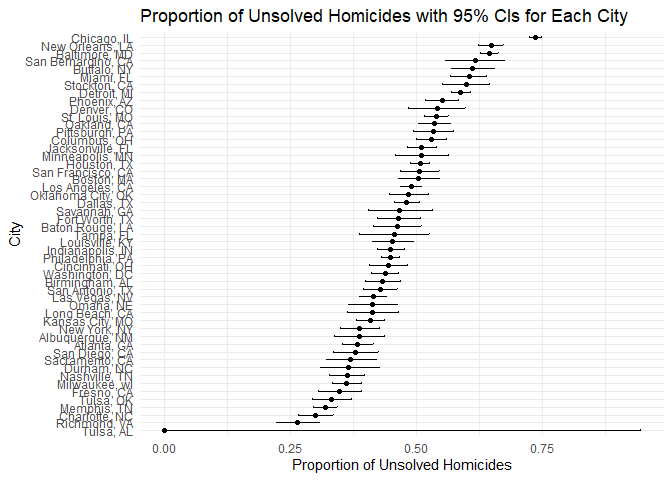
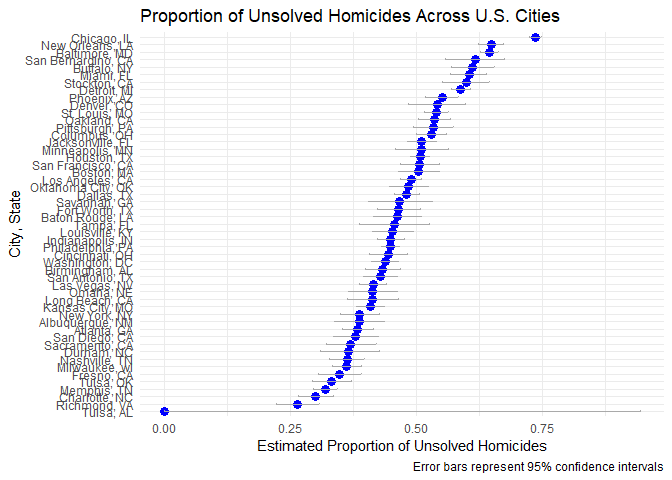
Added 2 tables in problem 3. But late.

Changed region(s): [[0.0, 0.0625, 0.2812, 0.9688], [0.375, 0.0, 1.0, 1.0]]

diff --git a/p8105_hw5_yj2802.md b/p8105_hw5_yj2802.md
@@ -1,7 +1,7 @@
 p8105_hw5_yj2802
 ================
 Yizhen Jia
-2024-11-15
+2024-11-16
 
 ``` r
 library(tidyverse)
@@ -31,6 +31,7 @@ library(rvest)
 
 ``` r
 library(broom)
+library(knitr)
 ```
 
 ## Problem 1
@@ -157,21 +158,70 @@ included variables are: uid, reported_date, victim_last, victim_first,
 victim_race, victim_age, victim_sex, city, state, lat, lon, disposition.
 
 ``` r
-p3 = homicides |>
-  mutate(city_state = paste(city, state, sep = ", ")) |>
-  group_by(city_state) |>
+homicides = read_csv(url) |> 
+  mutate(city_state = paste(city, state, sep = ", "))
+```
+
+    ## Rows: 52179 Columns: 12
+    ## ── Column specification ────────────────────────────────────────────────────────
+    ## Delimiter: ","
+    ## chr (9): uid, victim_last, victim_first, victim_race, victim_age, victim_sex...
+    ## dbl (3): reported_date, lat, lon
+    ## 
+    ## ℹ Use `spec()` to retrieve the full column specification for this data.
+    ## ℹ Specify the column types or set `show_col_types = FALSE` to quiet this message.
+
+``` r
+city_summary = homicides |> 
+  group_by(city_state) |> 
   summarize(
     total_homicides = n(),
     unsolved_homicides = sum(disposition %in% c("Closed without arrest", "Open/No arrest")),
     .groups = "drop"
   )
 
-results = p3 |>
+baltimore_summary = homicides |> 
+  filter(city_state == "Baltimore, MD") |> 
+  summarize(
+    total_homicides = n(),
+    unsolved_homicides = sum(disposition %in% c("Closed without arrest", "Open/No arrest"))
+  )
+
+baltimore_test = prop.test(
+  baltimore_summary$unsolved_homicides, 
+  baltimore_summary$total_homicides
+) |> 
+  broom::tidy() |> 
+  select(estimate, conf.low, conf.high)
+
+baltimore_table = baltimore_test |> 
+  mutate(
+    city = "Baltimore, MD",
+    estimate = round(estimate, 3),
+    conf.low = round(conf.low, 3),
+    conf.high = round(conf.high, 3)
+  ) |> 
+  select(city, estimate, conf.low, conf.high)
+
+knitr::kable(
+  baltimore_table, 
+  caption = "Proportion of Unsolved Homicides in Baltimore, MD"
+)
+```
+
+| city          | estimate | conf.low | conf.high |
+|:--------------|---------:|---------:|----------:|
+| Baltimore, MD |    0.646 |    0.628 |     0.663 |
+
+Proportion of Unsolved Homicides in Baltimore, MD
+
+``` r
+city_results = city_summary |> 
   mutate(
     prop_test = map2(unsolved_homicides, total_homicides, ~ prop.test(.x, .y)),
-    tidy_result = map(prop_test, tidy)
-  ) |>
-  unnest(cols = tidy_result) |>
+    tidy_results = map(prop_test, tidy)
+  ) |> 
+  unnest(cols = tidy_results) |> 
   select(city_state, estimate, conf.low, conf.high)
 ```
 
@@ -182,19 +232,95 @@ results = p3 |>
     ## ! Chi-squared approximation may be incorrect
 
 ``` r
-results = results |>
-  arrange(desc(estimate))
+city_table = city_results |> 
+  arrange(city_state) |>
+  mutate(
+    estimate = round(estimate, 3),
+    conf.low = round(conf.low, 3),
+    conf.high = round(conf.high, 3)
+  ) |> 
+  rename(
+    `City, State` = city_state,
+    `Proportion` = estimate,
+    `Lower CI` = conf.low,
+    `Upper CI` = conf.high
+  )
 
-ggplot(results, aes(x = reorder(city_state, estimate), y = estimate)) +
-  geom_point() +
-  geom_errorbar(aes(ymin = conf.low, ymax = conf.high), width = 0.2) +
+knitr::kable(
+  city_table, 
+  caption = "Proportion of Unsolved Homicides Across U.S. Cities"
+)
+```
+
+| City, State        | Proportion | Lower CI | Upper CI |
+|:-------------------|-----------:|---------:|---------:|
+| Albuquerque, NM    |      0.386 |    0.337 |    0.438 |
+| Atlanta, GA        |      0.383 |    0.353 |    0.415 |
+| Baltimore, MD      |      0.646 |    0.628 |    0.663 |
+| Baton Rouge, LA    |      0.462 |    0.414 |    0.511 |
+| Birmingham, AL     |      0.434 |    0.399 |    0.469 |
+| Boston, MA         |      0.505 |    0.465 |    0.545 |
+| Buffalo, NY        |      0.612 |    0.569 |    0.654 |
+| Charlotte, NC      |      0.300 |    0.266 |    0.336 |
+| Chicago, IL        |      0.736 |    0.724 |    0.747 |
+| Cincinnati, OH     |      0.445 |    0.408 |    0.483 |
+| Columbus, OH       |      0.530 |    0.500 |    0.560 |
+| Dallas, TX         |      0.481 |    0.456 |    0.506 |
+| Denver, CO         |      0.542 |    0.485 |    0.598 |
+| Detroit, MI        |      0.588 |    0.569 |    0.608 |
+| Durham, NC         |      0.366 |    0.310 |    0.426 |
+| Fort Worth, TX     |      0.464 |    0.422 |    0.507 |
+| Fresno, CA         |      0.347 |    0.305 |    0.391 |
+| Houston, TX        |      0.507 |    0.489 |    0.526 |
+| Indianapolis, IN   |      0.449 |    0.422 |    0.477 |
+| Jacksonville, FL   |      0.511 |    0.482 |    0.540 |
+| Kansas City, MO    |      0.408 |    0.380 |    0.437 |
+| Las Vegas, NV      |      0.414 |    0.388 |    0.441 |
+| Long Beach, CA     |      0.413 |    0.363 |    0.464 |
+| Los Angeles, CA    |      0.490 |    0.469 |    0.511 |
+| Louisville, KY     |      0.453 |    0.412 |    0.495 |
+| Memphis, TN        |      0.319 |    0.296 |    0.343 |
+| Miami, FL          |      0.605 |    0.569 |    0.640 |
+| Milwaukee, wI      |      0.361 |    0.333 |    0.391 |
+| Minneapolis, MN    |      0.511 |    0.459 |    0.563 |
+| Nashville, TN      |      0.362 |    0.329 |    0.398 |
+| New Orleans, LA    |      0.649 |    0.623 |    0.673 |
+| New York, NY       |      0.388 |    0.349 |    0.427 |
+| Oakland, CA        |      0.536 |    0.504 |    0.569 |
+| Oklahoma City, OK  |      0.485 |    0.447 |    0.524 |
+| Omaha, NE          |      0.413 |    0.365 |    0.463 |
+| Philadelphia, PA   |      0.448 |    0.430 |    0.466 |
+| Phoenix, AZ        |      0.551 |    0.518 |    0.584 |
+| Pittsburgh, PA     |      0.534 |    0.494 |    0.573 |
+| Richmond, VA       |      0.263 |    0.223 |    0.308 |
+| Sacramento, CA     |      0.370 |    0.321 |    0.421 |
+| San Antonio, TX    |      0.429 |    0.395 |    0.463 |
+| San Bernardino, CA |      0.618 |    0.558 |    0.675 |
+| San Diego, CA      |      0.380 |    0.335 |    0.426 |
+| San Francisco, CA  |      0.507 |    0.468 |    0.545 |
+| Savannah, GA       |      0.467 |    0.404 |    0.532 |
+| St. Louis, MO      |      0.540 |    0.515 |    0.564 |
+| Stockton, CA       |      0.599 |    0.552 |    0.645 |
+| Tampa, FL          |      0.457 |    0.388 |    0.527 |
+| Tulsa, AL          |      0.000 |    0.000 |    0.945 |
+| Tulsa, OK          |      0.331 |    0.293 |    0.371 |
+| Washington, DC     |      0.438 |    0.411 |    0.465 |
+
+Proportion of Unsolved Homicides Across U.S. Cities
+
+``` r
+# Create a ggplot
+ggplot(city_results |> mutate(city_state = reorder(city_state, estimate)), aes(x = city_state, y = estimate)) +
+  geom_point(color = "blue", size = 3) +
+  geom_errorbar(aes(ymin = conf.low, ymax = conf.high), width = 0.2, color = "darkgray") +
   coord_flip() +
   labs(
-    x = "City",
-    y = "Proportion of Unsolved Homicides",
-    title = "Proportion of Unsolved Homicides with 95% CIs for Each City"
+    title = "Proportion of Unsolved Homicides Across U.S. Cities",
+    x = "City, State",
+    y = "Estimated Proportion of Unsolved Homicides",
+    caption = "Error bars represent 95% confidence intervals"
   ) +
-  theme_minimal() 
+  theme_minimal()
 ```
 
 ![](p8105_hw5_yj2802_files/figure-gfm/unnamed-chunk-6-1.png)<!-- -->
